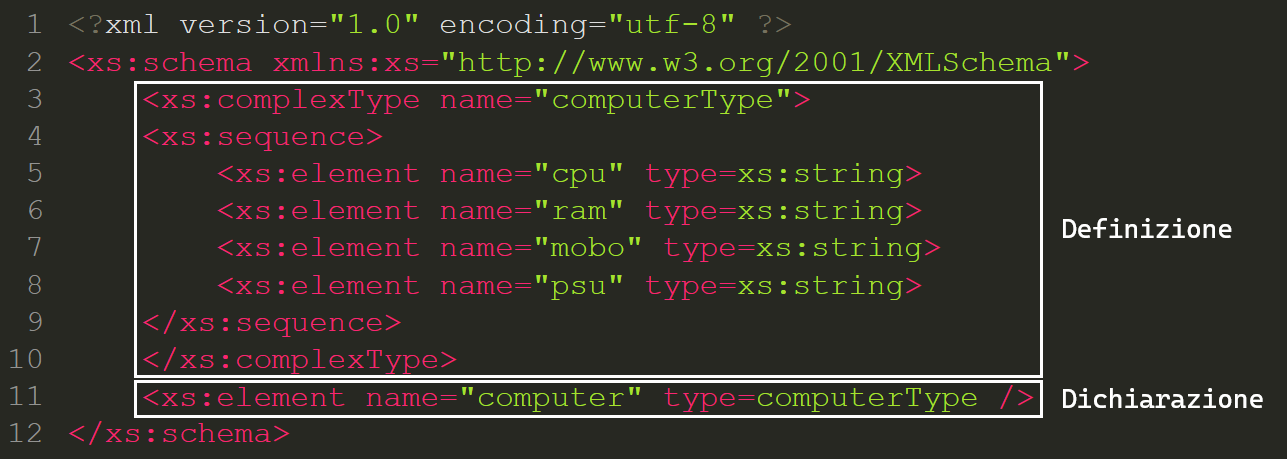
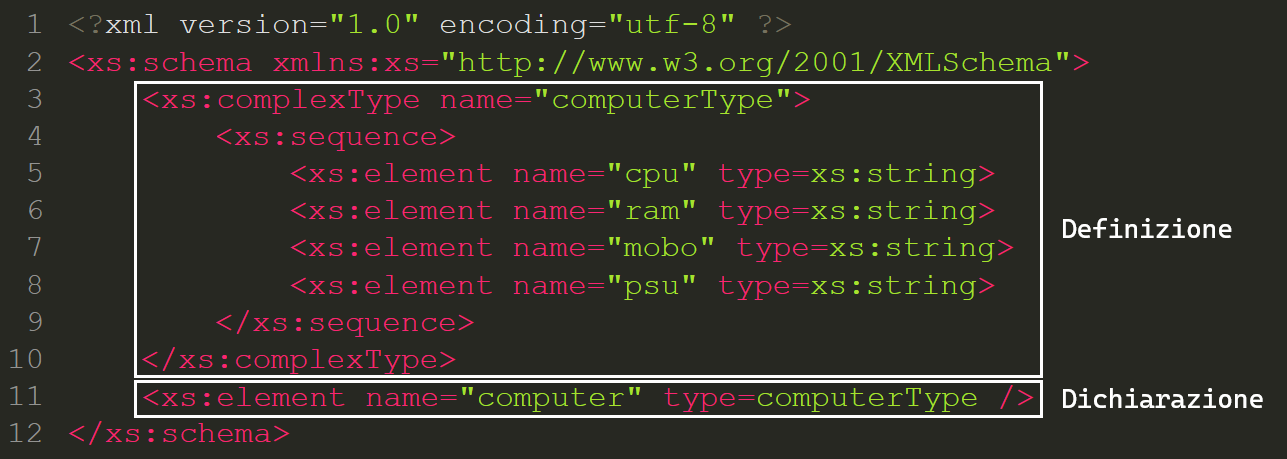
Added some slides

diff --git a/reveal.js/index.html b/reveal.js/index.html
@@ -131,31 +131,31 @@
 				<section>
 					<h3>Esempio del suo file <strong style="color: #2196f3;">XSD</strong></h3>
 					<div class="fragment-stack">
-						<pre class="fragment"><code class="html" data-trim data-line-numbers="3-5">
+						<pre class="fragment"><code class="html" data-trim data-line-numbers="2-4">
 							&lt;?xml version="1.0" encoding="utf-8" ?&gt;
 							&lt;xs:schema xmlns:xs="http://www.w3.org/2001/XMLSchema"&gt;
-							&nbsp;&nbsp;&nbsp;&nbsp;&lt;xs:element name="computer" type=computerType /&gt;
+							&nbsp;&nbsp;&nbsp;&nbsp;&lt;xs:element name="computer" type="computerType" /&gt;
 							&nbsp;&nbsp;&nbsp;&nbsp;&lt;xs:complexType name="computerType"&gt;
-							&nbsp;&nbsp;&nbsp;&nbsp;&lt;xs:sequence&gt;
-							&nbsp;&nbsp;&nbsp;&nbsp;&nbsp;&nbsp;&nbsp;&nbsp;&lt;xs:element name="cpu" type=xs:string&gt;
-							&nbsp;&nbsp;&nbsp;&nbsp;&nbsp;&nbsp;&nbsp;&nbsp;&lt;xs:element name="ram" type=xs:string&gt;
-							&nbsp;&nbsp;&nbsp;&nbsp;&nbsp;&nbsp;&nbsp;&nbsp;&lt;xs:element name="mobo" type=xs:string&gt;
-							&nbsp;&nbsp;&nbsp;&nbsp;&nbsp;&nbsp;&nbsp;&nbsp;&lt;xs:element name="psu" type=xs:string&gt;
-							&nbsp;&nbsp;&nbsp;&nbsp;&lt;/xs:sequence&gt;
+							&#9;&lt;xs:sequence&gt;
+							&#9;&nbsp;&nbsp;&nbsp;&nbsp;&lt;xs:element name="cpu" type="xs:string"&gt;
+							&#9;&nbsp;&nbsp;&nbsp;&nbsp;&lt;xs:element name="ram" type="xs:string"&gt;
+							&#9;&nbsp;&nbsp;&nbsp;&nbsp;&lt;xs:element name="mobo" type="xs:string"&gt;
+							&#9;&nbsp;&nbsp;&nbsp;&nbsp;&lt;xs:element name="psu" type="xs:string"&gt;
+							&#9;&lt;/xs:sequence&gt;
 							&nbsp;&nbsp;&nbsp;&nbsp;&lt;/xs:complexType&gt;
 							&lt;/xs:schema&gt;
 						</code></pre>
 						<pre class="fragment"><code class="html" data-trim data-line-numbers="6-9">
 							&lt;?xml version="1.0" encoding="utf-8" ?&gt;
 							&lt;xs:schema xmlns:xs="http://www.w3.org/2001/XMLSchema"&gt;
-							&nbsp;&nbsp;&nbsp;&nbsp;&lt;xs:element name="computer" type=computerType /&gt;
+							&nbsp;&nbsp;&nbsp;&nbsp;&lt;xs:element name="computer" type="computerType" /&gt;
 							&nbsp;&nbsp;&nbsp;&nbsp;&lt;xs:complexType name="computerType"&gt;
-							&nbsp;&nbsp;&nbsp;&nbsp;&lt;xs:sequence&gt;
-							&nbsp;&nbsp;&nbsp;&nbsp;&nbsp;&nbsp;&nbsp;&nbsp;&lt;xs:element name="cpu" type=xs:string&gt;
-							&nbsp;&nbsp;&nbsp;&nbsp;&nbsp;&nbsp;&nbsp;&nbsp;&lt;xs:element name="ram" type=xs:string&gt;
-							&nbsp;&nbsp;&nbsp;&nbsp;&nbsp;&nbsp;&nbsp;&nbsp;&lt;xs:element name="mobo" type=xs:string&gt;
-							&nbsp;&nbsp;&nbsp;&nbsp;&nbsp;&nbsp;&nbsp;&nbsp;&lt;xs:element name="psu" type=xs:string&gt;
-							&nbsp;&nbsp;&nbsp;&nbsp;&lt;/xs:sequence&gt;
+							&#9;&lt;xs:sequence&gt;
+							&#9;&nbsp;&nbsp;&nbsp;&nbsp;&lt;xs:element name="cpu" type="xs:string"&gt;
+							&#9;&nbsp;&nbsp;&nbsp;&nbsp;&lt;xs:element name="ram" type="xs:string"&gt;
+							&#9;&nbsp;&nbsp;&nbsp;&nbsp;&lt;xs:element name="mobo" type="xs:string"&gt;
+							&#9;&nbsp;&nbsp;&nbsp;&nbsp;&lt;xs:element name="psu" type="xs:string"&gt;
+							&#9;&lt;/xs:sequence&gt;
 							&nbsp;&nbsp;&nbsp;&nbsp;&lt;/xs:complexType&gt;
 							&lt;/xs:schema&gt;
 						</code></pre>
@@ -212,6 +212,74 @@
 				<section>
 					<h3>Definizione e dichiarazione</h3>
 					<img class="fragment grid-img" style="border: 0px; margin-top: 30px;" src="img/definizione_dichiarazione.png">
+				</section>
+				<section>
+					<h3>Dichiarazione inline</h3>
+					<img class="fragment grid-img" style="border: 0px; margin-top: 30px;" src="img/definizione_inline.png">
+				</section>
+				<section>
+					<h4>Tipo semplice predefinito</h4>
+					<div class="twocolsrows">
+						<h4>XSD</h4>
+						<pre><code class="xml" data-trim data-line-numbers="1-4">
+							&lt;xs:element name="nomeNegozio" type="xs:string"&gt;
+							&lt;xs:element name="numeroDipendenti" type="xs:positiveInteger"&gt;
+							&lt;xs:element name="dataApertura" type="xs:date"&gt;
+							&lt;xs:element name="apertoDomenica" type="xs:boolean"&gt;
+						</code></pre>
+						<h4>Istanza</h4>
+						<pre><code class="xml" data-trim data-line-numbers="1-4">
+							&lt;nomeNegozio&gt;Adigeo&lt;/nomeNegozio&gt;
+							&lt;numeroDipendenti&gt;200&lt;/numeroDipendenti&gt;
+							&lt;dataApertura&gt;30-03-2017&lt;/dataApertura&gt;
+							&lt;apertoDomenica&gt;true&lt;/apertoDomenica&gt;
+						</code></pre>
+					</div>
+				</section>
+				<section>
+					<h4>Tipo complesso</h4>
+					<div class="twocolsrows">
+						<h4>XSD</h4>
+						<pre><code class="xml" data-trim data-line-numbers="1-7">
+							&lt;xs:complexType name="NegozioType"&gt;
+							&nbsp;&nbsp;&nbsp;&lt;xs:sequence&gt;
+							&nbsp;&nbsp;&nbsp;&nbsp;&nbsp;&nbsp;&lt;xs:element name="nomeNegozio" type="xs:string"&gt;
+							&nbsp;&nbsp;&nbsp;&nbsp;&nbsp;&nbsp;&lt;xs:element name="numeroDipendenti" type="xs:positiveInteger"&gt;
+							&nbsp;&nbsp;&nbsp;&lt;/xs:sequence&gt;
+							&lt;/xs:complexType&gt;
+							&lt;xs:element name="Negozio" type="NegozioType"&gt;
+						</code></pre>
+						<h4>Istanza</h4>
+						<pre><code class="xml" data-trim data-line-numbers="1-4">
+							&lt;Negozio&gt;
+							&nbsp;&nbsp;&nbsp;&lt;nomeNegozio&gt;Adigeo&lt;/nomeNegozio&gt;
+							&nbsp;&nbsp;&nbsp;&lt;numeroDipendenti&gt;200&lt;/numeroDipendenti&gt;
+							&lt;/Negozio&gt;
+						</code></pre>
+					</div>
+				</section>
+				<section>
+					<h4>Definizione inline di tipo complesso</h4>
+					<div class="twocolsrows">
+						<h4>XSD</h4>
+						<pre><code class="xml" data-trim data-line-numbers="1-8">
+							&lt;xs:element name="Negozio"&gt;
+							&nbsp;&nbsp;&nbsp;&lt;xs:complexType name="NegozioType"&gt;
+							&nbsp;&nbsp;&nbsp;&lt;xs:sequence&gt;
+							&nbsp;&nbsp;&nbsp;&nbsp;&nbsp;&nbsp;&lt;xs:element name="nomeNegozio" type="xs:string"&gt;
+							&nbsp;&nbsp;&nbsp;&nbsp;&nbsp;&nbsp;&lt;xs:element name="numeroDipendenti" type="xs:positiveInteger"&gt;
+							&nbsp;&nbsp;&nbsp;&nbsp;&nbsp;&nbsp;&lt;/xs:sequence&gt;
+							&nbsp;&nbsp;&nbsp;&lt;/xs:complexType&gt;
+							&lt;/xs:element&gt;
+						</code></pre>
+						<h4>Istanza</h4>
+						<pre><code class="xml" data-trim data-line-numbers="1-4">
+							&lt;Negozio&gt;
+							&nbsp;&nbsp;&nbsp;&lt;nomeNegozio&gt;Adigeo&lt;/nomeNegozio&gt;
+							&nbsp;&nbsp;&nbsp;&lt;numeroDipendenti&gt;200&lt;/numeroDipendenti&gt;
+							&lt;/Negozio&gt;
+						</code></pre>
+					</div>
 				</section>
 			</section>
 

diff --git a/reveal.js/css/Luciano.css b/reveal.js/css/Luciano.css
@@ -12,6 +12,13 @@
     left: 0;
 }
 
+.twocolsrows{
+    display: grid;
+    grid-template-columns: 1fr 1fr;
+    grid-template-rows: 1fr 1fr;
+    justify-items: center;
+    align-items: center;
+}
 
 ul ul{
     margin-left:60px !important;
